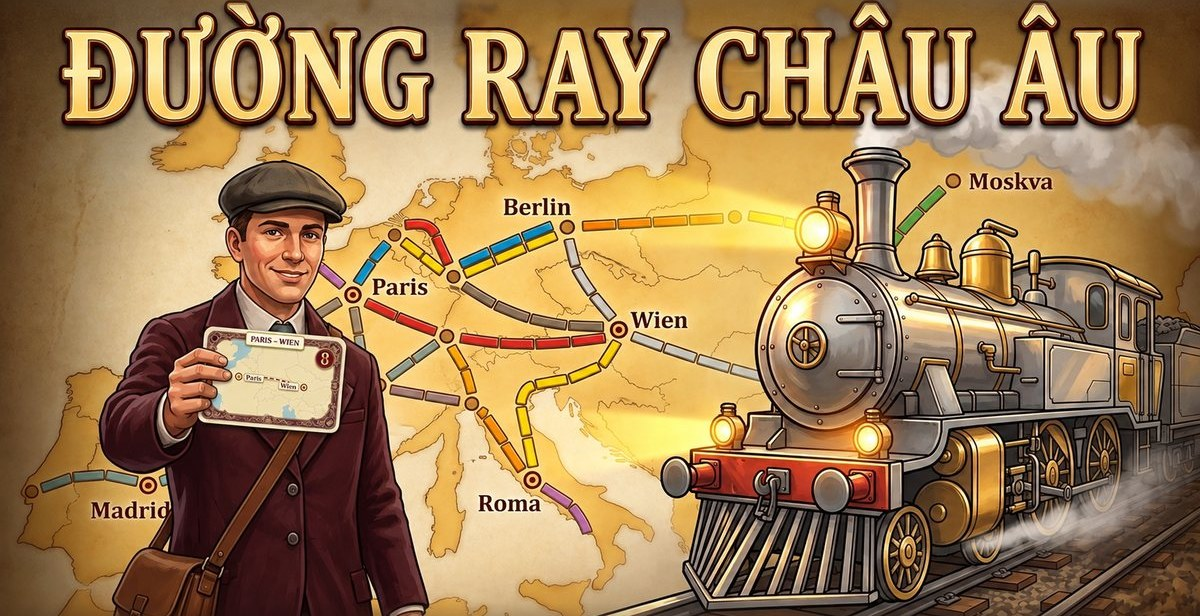
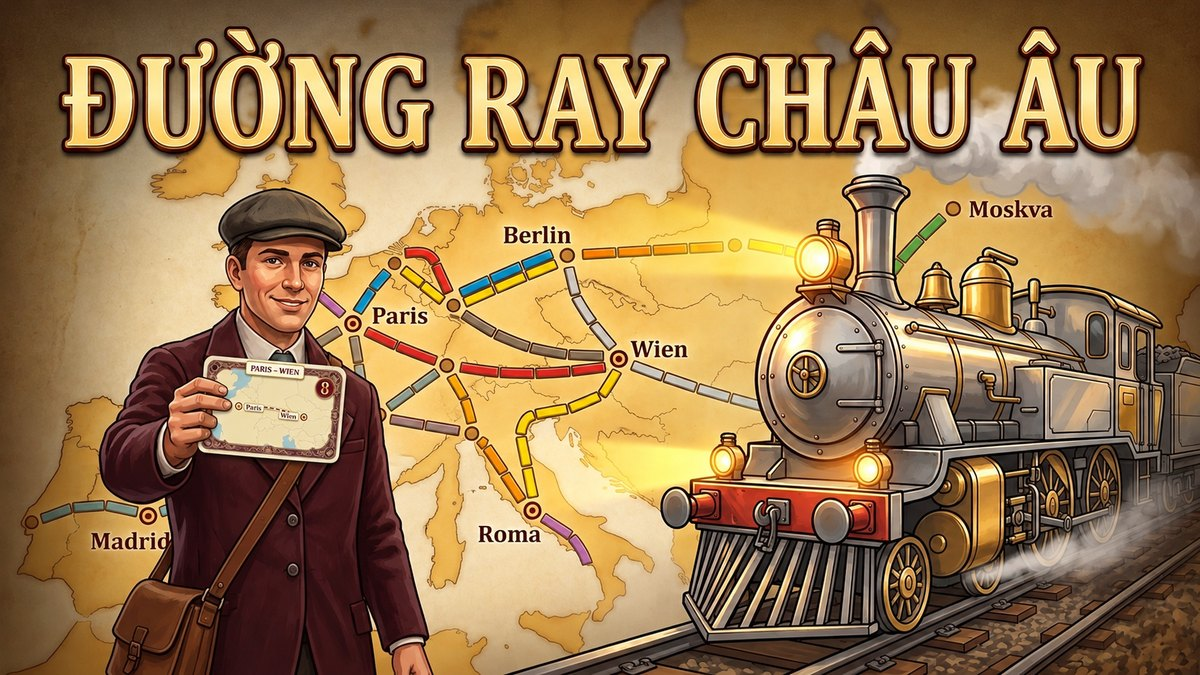
Trang chủ: mọi ô trò chơi cùng khổ 16:9 (Đá Quý thêm bản ngang, Châu Âu dùng ảnh đầy đủ)
Claude-Session: https://claude.ai/code/session_01C6iMujCmX6wKKq45Tr3EAE

diff --git a/index.html b/index.html
@@ -537,7 +537,11 @@ button,input{font-family:inherit;font-size:15px}
 .g-card:hover .g-cover img{transform:scale(1.06)}
 .hero-art-box{aspect-ratio:1200/896}
 .g-cover:has(img.wide){aspect-ratio:16/9}
-.g-cover:has(img.w195){aspect-ratio:1200/616}
+.g-cover:has(img.w195){aspect-ratio:16/9}
+.g-cover img.wide{object-fit:cover;object-position:center}
+.g-card .g-cover{aspect-ratio:16/9!important}
+.g-card .g-cover .g-play-fab{top:auto;bottom:8px;left:8px;width:28px;height:28px;font-size:11px}
+.g-card .g-cover .g-tag{top:auto;bottom:8px;right:8px;font-size:11px;padding:2px 8px}
 .g-cover:has(img.wide) .g-play-fab{top:auto;bottom:8px;left:8px;width:28px;height:28px;font-size:11px}
 .g-cover:has(img.wide) .g-tag{top:auto;bottom:8px;right:8px;font-size:11px;padding:2px 8px}
 </style>
@@ -665,12 +669,12 @@ function card(x,y,r,rank,suit,red,w){ w=w||46; const hgt=w*1.4; return `<g trans
 const THUMBS={
   'dao-khai-hoang':big=>`<img class="wide" src="games/dao-khai-hoang/assets/${big?'cover':'thumb'}.jpg?v=4" alt="Đảo Khai Hoang" loading="${big?'eager':'lazy'}" decoding="async">`,
   'duong-ray-bac-my':big=>`<img class="wide" src="games/duong-ray-bac-my/assets/${big?'cover':'thumb'}.jpg?v=1" alt="Đường Ray Bắc Mỹ" loading="${big?'eager':'lazy'}" decoding="async">`,
-  'duong-ray-chau-au':big=>`<img class="wide w195" src="games/duong-ray-chau-au/assets/${big?'cover':'thumb'}.jpg?v=4" alt="Đường Ray Châu Âu" loading="${big?'eager':'lazy'}" decoding="async">`,
-  'ma-soi':()=>`<svg viewBox="0 0 300 225"><rect width="300" height="225" fill="#1b2537"/><circle cx="210" cy="62" r="34" fill="#f3f0dc"/><path d="M0 175 L40 150 L80 168 L130 140 L180 165 L230 145 L300 170 L300 225 L0 225Z" fill="#0f1622"/><path d="M120 175 L124 140 L118 126 L128 132 L136 118 L144 132 L154 126 L148 140 L152 175Z" fill="#0b0f17"/><circle cx="131" cy="136" r="2" fill="#ffcf3f"/><circle cx="141" cy="136" r="2" fill="#ffcf3f"/></svg>`,
-  'da-quy':big=>`<img src="games/da-quy/assets/${big?'cover':'thumb'}.jpg" alt="Thương Nhân Đá Quý" loading="${big?'eager':'lazy'}" decoding="async">`,
-  'bien-muoi':()=>`<svg viewBox="0 0 300 225"><defs><linearGradient id="bmT1" x1="0" y1="0" x2="0" y2="1"><stop offset="0" stop-color="#9fe0ff"/><stop offset="1" stop-color="#e9f9ff"/></linearGradient><linearGradient id="bmT2" x1="0" y1="0" x2="0" y2="1"><stop offset="0" stop-color="#2eaee0"/><stop offset="1" stop-color="#145f93"/></linearGradient></defs><rect width="300" height="225" fill="url(#bmT1)"/><circle cx="238" cy="52" r="26" fill="#fff6b0"/><rect y="118" width="300" height="107" fill="url(#bmT2)"/><g fill="none" stroke="#fff" stroke-opacity=".5" stroke-width="3"><path d="M0 140 q18-10 36 0 t36 0 t36 0 t36 0 t36 0 t36 0 t36 0 t36 0"/><path d="M-10 176 q18-10 36 0 t36 0 t36 0 t36 0 t36 0 t36 0 t36 0 t36 0 t36 0"/></g><path d="M70 120 L210 120 L186 158 L94 158Z" fill="#fffaf0"/><path d="M140 40 L140 116 L88 106Z" fill="#fff"/><path d="M140 40 L196 106 L140 116Z" fill="#ffd9a8"/><path d="M140 40 L162 52 L140 58Z" fill="#e8553a"/><g transform="rotate(-8 60 190)"><rect x="34" y="160" width="52" height="72" rx="6" fill="#fff" stroke="#e9c46a" stroke-width="3"/><circle cx="60" cy="190" r="12" fill="#ff7a55"/></g><g transform="rotate(7 246 186)"><rect x="220" y="158" width="52" height="72" rx="6" fill="#fff" stroke="#e9c46a" stroke-width="3"/><path d="M230 200 q16-30 32 0 q-16 14-32 0Z" fill="#b97af0"/></g></svg>`,
-  'phom':()=>`<svg viewBox="0 0 300 225"><rect width="300" height="225" fill="#6d5a2f"/><ellipse cx="150" cy="120" rx="150" ry="110" fill="#7d683a"/>${card(60,75,0,'7','♠',0,40)}${card(90,75,0,'7','♥',1,40)}${card(120,75,0,'7','♦',1,40)}${card(185,75,0,'4','♣',0,40)}${card(215,75,0,'5','♣',0,40)}${card(245,75,0,'6','♣',0,40)}${card(95,160,-6,'9','♥',1,40)}${card(150,163,0,'K','♠',0,40)}${card(205,160,6,'2','♦',1,40)}</svg>`,
-  'co-ty-phu':()=>{ let s=`<svg viewBox="0 0 300 225"><rect width="300" height="225" fill="#2e6a86"/><rect x="60" y="22" width="180" height="180" fill="#dfeee4" stroke="#1d3c4a" stroke-width="2"/>`; const cols=['#c0392b','#e67e22','#f1c40f','#27ae60','#2980b9','#8e44ad'];
+  'duong-ray-chau-au':big=>`<img class="wide w195" src="games/duong-ray-chau-au/assets/${big?'cover':'thumb'}.jpg?v=5" alt="Đường Ray Châu Âu" loading="${big?'eager':'lazy'}" decoding="async">`,
+  'ma-soi':()=>`<svg viewBox="0 0 300 225" preserveAspectRatio="xMidYMid slice"><rect width="300" height="225" fill="#1b2537"/><circle cx="210" cy="62" r="34" fill="#f3f0dc"/><path d="M0 175 L40 150 L80 168 L130 140 L180 165 L230 145 L300 170 L300 225 L0 225Z" fill="#0f1622"/><path d="M120 175 L124 140 L118 126 L128 132 L136 118 L144 132 L154 126 L148 140 L152 175Z" fill="#0b0f17"/><circle cx="131" cy="136" r="2" fill="#ffcf3f"/><circle cx="141" cy="136" r="2" fill="#ffcf3f"/></svg>`,
+  'da-quy':big=>big?`<img src="games/da-quy/assets/cover.jpg" alt="Thương Nhân Đá Quý" loading="eager" decoding="async">`:`<img class="wide" src="games/da-quy/assets/thumb-wide.jpg?v=1" alt="Thương Nhân Đá Quý" loading="lazy" decoding="async">`,
+  'bien-muoi':()=>`<svg viewBox="0 0 300 225" preserveAspectRatio="xMidYMid slice"><defs><linearGradient id="bmT1" x1="0" y1="0" x2="0" y2="1"><stop offset="0" stop-color="#9fe0ff"/><stop offset="1" stop-color="#e9f9ff"/></linearGradient><linearGradient id="bmT2" x1="0" y1="0" x2="0" y2="1"><stop offset="0" stop-color="#2eaee0"/><stop offset="1" stop-color="#145f93"/></linearGradient></defs><rect width="300" height="225" fill="url(#bmT1)"/><circle cx="238" cy="52" r="26" fill="#fff6b0"/><rect y="118" width="300" height="107" fill="url(#bmT2)"/><g fill="none" stroke="#fff" stroke-opacity=".5" stroke-width="3"><path d="M0 140 q18-10 36 0 t36 0 t36 0 t36 0 t36 0 t36 0 t36 0 t36 0"/><path d="M-10 176 q18-10 36 0 t36 0 t36 0 t36 0 t36 0 t36 0 t36 0 t36 0 t36 0"/></g><path d="M70 120 L210 120 L186 158 L94 158Z" fill="#fffaf0"/><path d="M140 40 L140 116 L88 106Z" fill="#fff"/><path d="M140 40 L196 106 L140 116Z" fill="#ffd9a8"/><path d="M140 40 L162 52 L140 58Z" fill="#e8553a"/><g transform="rotate(-8 60 190)"><rect x="34" y="160" width="52" height="72" rx="6" fill="#fff" stroke="#e9c46a" stroke-width="3"/><circle cx="60" cy="190" r="12" fill="#ff7a55"/></g><g transform="rotate(7 246 186)"><rect x="220" y="158" width="52" height="72" rx="6" fill="#fff" stroke="#e9c46a" stroke-width="3"/><path d="M230 200 q16-30 32 0 q-16 14-32 0Z" fill="#b97af0"/></g></svg>`,
+  'phom':()=>`<svg viewBox="0 0 300 225" preserveAspectRatio="xMidYMid slice"><rect width="300" height="225" fill="#6d5a2f"/><ellipse cx="150" cy="120" rx="150" ry="110" fill="#7d683a"/>${card(60,75,0,'7','♠',0,40)}${card(90,75,0,'7','♥',1,40)}${card(120,75,0,'7','♦',1,40)}${card(185,75,0,'4','♣',0,40)}${card(215,75,0,'5','♣',0,40)}${card(245,75,0,'6','♣',0,40)}${card(95,160,-6,'9','♥',1,40)}${card(150,163,0,'K','♠',0,40)}${card(205,160,6,'2','♦',1,40)}</svg>`,
+  'co-ty-phu':()=>{ let s=`<svg viewBox="0 0 300 225" preserveAspectRatio="xMidYMid slice"><rect width="300" height="225" fill="#2e6a86"/><rect x="60" y="22" width="180" height="180" fill="#dfeee4" stroke="#1d3c4a" stroke-width="2"/>`; const cols=['#c0392b','#e67e22','#f1c40f','#27ae60','#2980b9','#8e44ad'];
     for(let i=0;i<6;i++){ const x=60+i*30; s+=`<rect x="${x}" y="22" width="30" height="30" fill="#fff" stroke="#1d3c4a"/><rect x="${x}" y="22" width="30" height="8" fill="${cols[i]}"/><rect x="${x}" y="172" width="30" height="30" fill="#fff" stroke="#1d3c4a"/><rect x="${x}" y="194" width="30" height="8" fill="${cols[5-i]}"/>`; }
     return s+`<text x="150" y="116" text-anchor="middle" font-family="Times New Roman" font-size="20" font-weight="bold" fill="#1d3c4a">TỶ PHÚ</text></svg>`; }
 };
